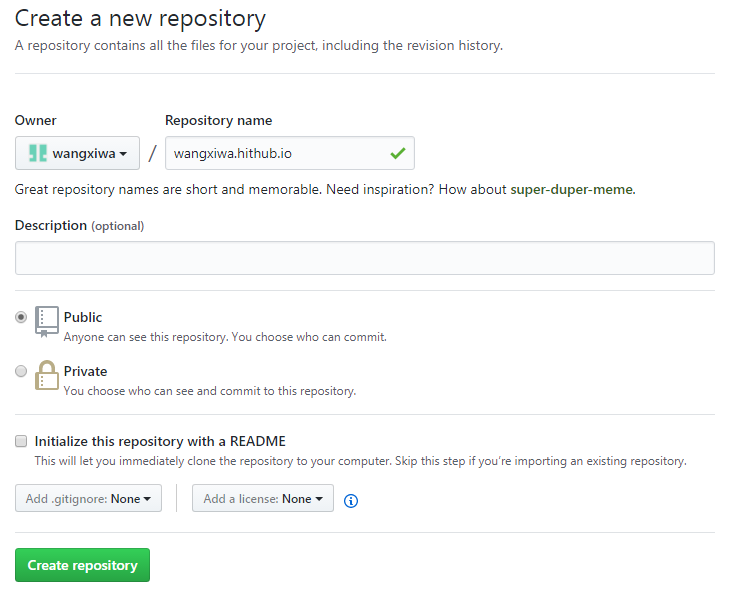
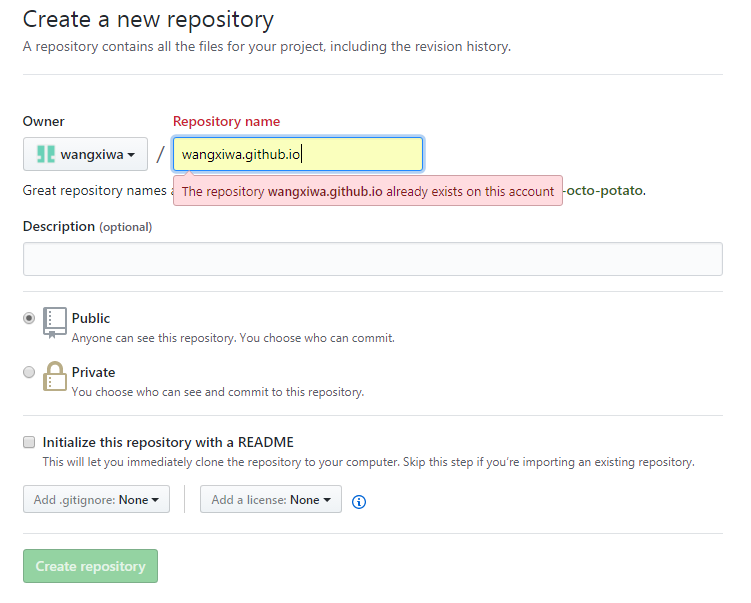
Site updated: 2017-09-19 14:41:44

diff --git a/2017/09/04/博客搭建/index.html b/2017/09/04/博客搭建/index.html
@@ -111,7 +111,7 @@
 <meta property="og:locale" content="zh-Hans">
 <meta property="og:image" content="https://github.com/img/blog/sign_up.png">
 <meta property="og:image" content="https://github.com/img/blog/SSH.png">
-<meta property="og:updated_time" content="2017-09-18T09:08:46.881Z">
+<meta property="og:updated_time" content="2017-09-19T06:40:43.427Z">
 <meta name="twitter:card" content="summary">
 <meta name="twitter:title" content="Hexo+GitHub搭建博客">
 <meta name="twitter:description" content="搭建Hexo+GitHub博客的简要内容">
@@ -391,7 +391,7 @@
 <p>Hexo文件结构<br><figure class="highlight plain"><table><tr><td class="gutter"><pre><div class="line">1</div><div class="line">2</div><div class="line">3</div><div class="line">4</div><div class="line">5</div><div class="line">6</div><div class="line">7</div><div class="line">8</div></pre></td><td class="code"><pre><div class="line">.</div><div class="line">├── _config.yml // 网站的配置信息，你可以在此配置大部分的参数。</div><div class="line">├── package.json </div><div class="line">├── scaffolds // 模板文件夹。当你新建文章时，Hexo会根据scaffold来建立文件。</div><div class="line">├── source // 存放用户资源的地方</div><div class="line">|   ├── _drafts</div><div class="line">|   └── _posts</div><div class="line">└── themes // 存放网站的主题。Hexo会根据主题来生成静态页面。</div></pre></td></tr></table></figure></p>
 <p>本地运行博客<br><figure class="highlight plain"><table><tr><td class="gutter"><pre><div class="line">1</div></pre></td><td class="code"><pre><div class="line">hexo s</div></pre></td></tr></table></figure></p>
 <h4 id="GitHub注册、创建仓库"><a href="#GitHub注册、创建仓库" class="headerlink" title="GitHub注册、创建仓库"></a>GitHub注册、创建仓库</h4><p><a href="http://wiki.jikexueyuan.com/project/github-basics/sign-up.html" target="_blank" rel="external">极客学院：GitHub注册</a></p>
-<p>创建仓库(Repository)<br><img src="/img/blog/sign_up.png"><br>每个GitHub帐号只能有一个仓库来存放个人主页</p>
+<p>创建仓库(Repository)<br><img src="/img/blog/sign_up.png"><br><em>wangxiwa.github.io正在使用</em><br>每个GitHub帐号只能有一个仓库来存放个人主页</p>
 <p><font color="red">仓库的名字必须是username/username.github.io</font>，username为自己github的用户名</p>
 <p><br><br></p>
 <h4 id="SSH配置"><a href="#SSH配置" class="headerlink" title="SSH配置"></a>SSH配置</h4><p>git身份信息<br><figure class="highlight plain"><table><tr><td class="gutter"><pre><div class="line">1</div><div class="line">2</div></pre></td><td class="code"><pre><div class="line">git config --global user.name &quot;用户名&quot;</div><div class="line">git config --global user.email &quot;邮箱&quot;</div></pre></td></tr></table></figure></p>

diff --git a/css/main.css b/css/main.css
@@ -1812,7 +1812,7 @@ pre .javascript .function {
   width: 4px;
   height: 4px;
   border-radius: 50%;
-  background: #ccff46;
+  background: #941187;
 }
 .links-of-blogroll {
   font-size: 13px;
